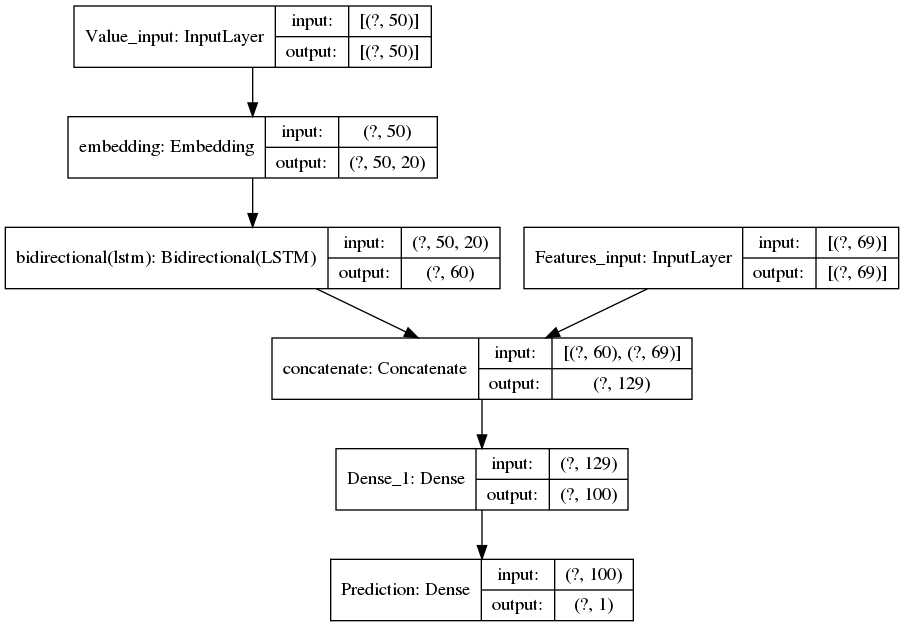
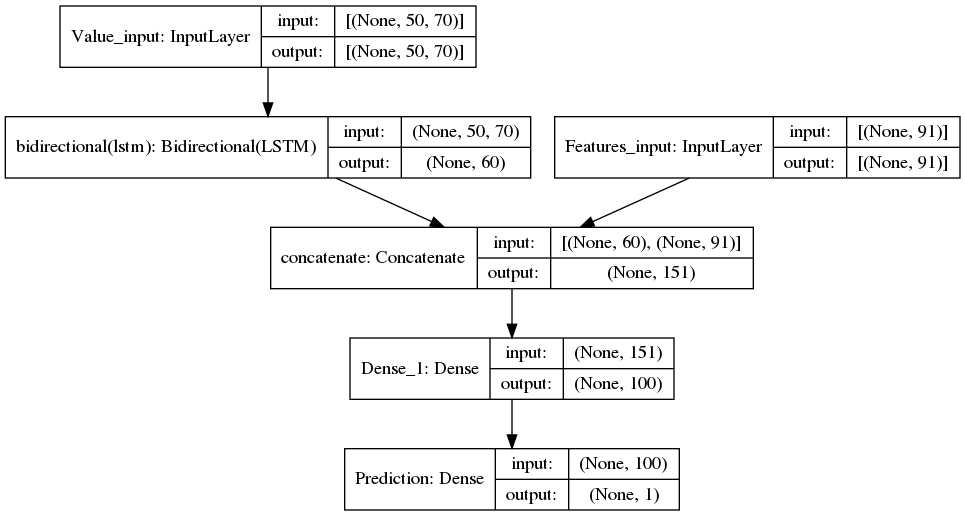
Update ml related documentation (#198)
* Update Model_with_features.png

* Update ML model description and add example

* Fix typos in overall_architecture.rst

* Update ML model description, add threshold info

* Fix HTML generator error

* Fix typo in overall_architecture.rst

Changed region(s): [[0.0, 0.0, 1.0, 0.9922]]

diff --git a/docs/source/overall_architecture.rst b/docs/source/overall_architecture.rst
@@ -128,20 +128,49 @@ ML validation
 -------------
 
 CredSweeper provides pre-trained ML models to filter false credential lines.
-Users can use `ML validation`_ by explicitly setting the command option.
+`ML validation` is on by the default and its  sensitivity can be adjusted using ``--ml_threshold``:
+
+.. code-block:: text
+
+     --ml_threshold FLOAT_OR_STR
+        setup threshold for the ml model.
+        The lower the threshold - the more credentials will be reported.
+        Allowed values: float between 0 and 1, or any of ['lowest', 'low', 'medium', 'high', 'highest']
+        (default: medium)
+
+And ML can be fully disable by setting ``--ml_threshold 0``
 
 .. code-block:: bash
 
-    python -m credsweeper --path $TARGET_REPO
+    python -m credsweeper --ml_threshold 0 ...
 
-ML model classifies whether the target line is a credential or not.
-The model is constructed by the combination of Linear Regression model and biLSTM model using character set, trained by sample credential lines.
-Below figure is the model architecture.
+Our ML model architecture is a combination of Bidirectional LSTM with additional handcrafted features.
+It uses last 50 characters from the potential credential and 91 handcrafted features to decide if it's a real credential or not.
+
+Example:
+
+.. code-block:: text
+
+    leaked_cred.py:
+    my_db_password = "NUU423cds"
+
+Steps:
+
+1. Regular expression extracts ```NUU423cds``` as a secret value, ```my_db_password``` as a variable, and ```my_db_password = "NUU423cds"``` as whole line
+2. Handcrafted feature classes instantiated from classes in `features.py <https://github.com/Samsung/CredSweeper/blob/main/credsweeper/ml_model/features.py>`_ using `model_config.json <https://github.com/Samsung/CredSweeper/blob/6a2e575987448dd20895a8e72efb3b09fdcbecc2/credsweeper/ml_model/model_config.json#L10>`_. Instantiation process can be checked at `ml_validator.py#L46 <https://github.com/Samsung/CredSweeper/blob/main/credsweeper/ml_model/ml_validator.py#L46>`_. Features include: ``` ``` character in line: yes/no, ```(``` character in line: yes/no, file extension is ```.c```: yes/no, etc.
+3. Handcrafted features from step 2 used on line, value, variable, and filename to get feature vector of length 91
+4. ```NUU423cds``` lowercased and right padded with special padding characters to the length 50. Last 50 characters selected if longer. Only 70 symbols used: 68 ASCII characters + 1 padding character + 1 special character for all other symbols: `ml_validator.py#L29 <https://github.com/Samsung/CredSweeper/blob/6a2e575987448dd20895a8e72efb3b09fdcbecc2/credsweeper/ml_model/ml_validator.py#L29>`_. Padded line than `one-hot encoded <https://en.wikipedia.org/wiki/One-hot>`_. Link to corresponding code: `ml_validator.py#L63 <https://github.com/Samsung/CredSweeper/blob/6a2e575987448dd20895a8e72efb3b09fdcbecc2/credsweeper/ml_model/ml_validator.py#L63>`_
+5. Padded line from step 4 inputted to Bidirectional LSTM. LSTM produce single vector of length 60 as output
+6. LSTM output and handcrafted features concatenated into a single vector of length 151
+7. Vector from step 6 feed into the two last Dense layers
+8. Last layer outputs float value in range 0-1 with estimated probability of line being a real credential
+9. Predicted probability compared to the threshold (see `--ml_threshold` CLI option) and credential reported if predicted probability is greater
 
 .. image:: https://raw.githubusercontent.com/Samsung/CredSweeper/main/docs/images/Model_with_features.png
 
-Linear Regression model takes feature vector with a value of 1 if the corresponding rule is met, and 0 if not as an input.
-For the complete description of the rules applied, you can read `this publication <https://ieeexplore.ieee.org/abstract/document/9027350>`_.
+Additional:
+
+- Handcrafted features are based on the rules described in `"Secrets in Source Code" publication <https://ieeexplore.ieee.org/abstract/document/9027350>`_.
 
 .. code-block:: text
 
@@ -153,3 +182,5 @@ For the complete description of the rules applied, you can read `this publicatio
         pages={168-175},  
         doi={10.1109/COMSNETS48256.2020.9027350}
     }
+
+- Mapping between text threshold values and float can be found at `model_config.json#L2 <https://github.com/Samsung/CredSweeper/blob/6a2e575987448dd20895a8e72efb3b09fdcbecc2/credsweeper/ml_model/model_config.json#L2>`_. Values are based on F-0.25, F-0.5, F-1, F-2 and F-4 scores on `CredData test <https://github.com/Samsung/CredData/>`_
